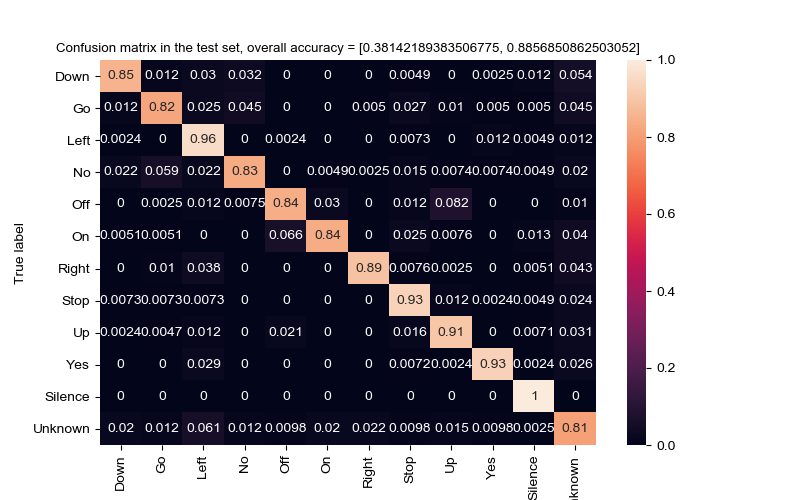
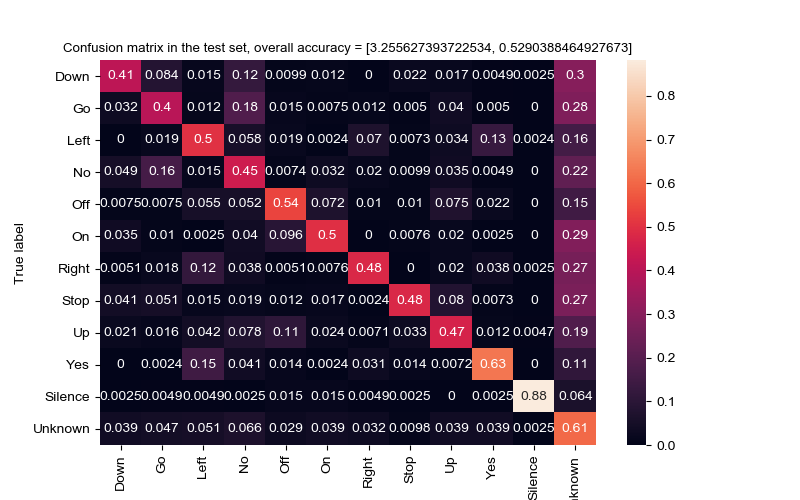
Added some models. Running the code with different values of masking_fraction_training generates different caches files

diff --git a/HDA_Project.py b/HDA_Project.py
@@ -256,6 +256,230 @@ def modelconvNN(input_shape):
 
     return model
 
+def modelconvNN(input_shape):
+    """
+    :param input_shape: -- shape of the data of the dataset
+    :return: model -- a tf.keras.Model() instance
+    """
+
+    X_input = tf.keras.Input(input_shape)
+
+    X = tf.keras.layers.Conv2D(32, (8, 16), strides=(1, 4))(X_input)
+    X = BatchNormalization(axis=3,)(X)
+    X = tf.keras.layers.Activation('relu')(X)
+    X = tf.keras.layers.SpatialDropout2D(0.2)(X)
+    X = MaxPooling2D((2, 2), name='max_pool')(X)
+
+    X = tf.keras.layers.Conv2D(64, (4, 5), strides=(1, 1))(X)
+    X = BatchNormalization(axis=3, )(X)
+    X = tf.keras.layers.Activation('relu')(X)
+    X = tf.keras.layers.SpatialDropout2D(0.2)(X)
+    X = MaxPooling2D((2, 2), name='max_pool1')(X)
+
+    X = tf.keras.layers.Conv2D(128, (3, 3), strides=(1, 1))(X)
+    X = BatchNormalization(axis=3, )(X)
+    X = tf.keras.layers.Activation('relu')(X)
+    X = tf.keras.layers.SpatialDropout2D(0.2)(X)
+    X = MaxPooling2D((2, 2), name='max_pool2')(X)
+
+    X = tf.keras.layers.Flatten()(X)
+
+    X = tf.keras.layers.Dense(12, activation='softmax', name='fc2')(X)
+
+    # Create the keras model. This creates your Keras model instance, you'll use this instance to train/test the model.
+    model = tf.keras.Model(inputs=X_input, outputs=X, name='MyModel')
+
+    return model
+
+
+def modelconvNN1(input_shape):
+    """
+    :param input_shape: -- shape of the data of the dataset
+    :return: model -- a tf.keras.Model() instance
+    """
+
+    X_input = tf.keras.Input(input_shape)
+
+    X = tf.keras.layers.Conv2D(16, (3, 5), strides=(1, 2))(X_input)
+    X = BatchNormalization(axis=3,)(X)
+    X = tf.keras.layers.Activation('relu')(X)
+    X = tf.keras.layers.SpatialDropout2D(0.2)(X)
+    X = MaxPooling2D((2, 2), name='max_pool')(X)
+
+    X = tf.keras.layers.Conv2D(32, (3, 3), strides=(1, 1))(X)
+    X = BatchNormalization(axis=3, )(X)
+    X = tf.keras.layers.Activation('relu')(X)
+    X = tf.keras.layers.SpatialDropout2D(0.2)(X)
+    X = MaxPooling2D((2, 2), name='max_pool1')(X)
+
+    X = tf.keras.layers.Conv2D(64, (3, 3), strides=(1, 1))(X)
+    X = BatchNormalization(axis=3, )(X)
+    X = tf.keras.layers.Activation('relu')(X)
+    X = tf.keras.layers.SpatialDropout2D(0.2)(X)
+    X = MaxPooling2D((2, 2), name='max_pool2')(X)
+
+    X = tf.keras.layers.Conv2D(128, (3, 3), strides=(1, 1))(X)
+    X = BatchNormalization(axis=3, )(X)
+    X = tf.keras.layers.Activation('relu')(X)
+    X = tf.keras.layers.SpatialDropout2D(0.2)(X)
+    X = MaxPooling2D((2, 2), name='max_pool3')(X)
+
+    X = tf.keras.layers.Flatten()(X)
+
+    X = tf.keras.layers.Dense(12, activation='softmax', name='fc2')(X)
+
+    # Create the keras model. This creates your Keras model instance, you'll use this instance to train/test the model.
+    model = tf.keras.Model(inputs=X_input, outputs=X, name='MyModel')
+
+    return model
+
+
+def ConvSpeechModel(input_shape):
+    """
+    Base fully convolutional model for speech recognition
+    """
+
+    X_input = tf.keras.Input(input_shape)
+
+    # note that Melspectrogram puts the sequence in shape (batch_size, melDim, timeSteps, 1)
+    # we would rather have it the other way around for LSTMs
+
+    x = tf.keras.layers.Permute((2, 1, 3))((X_input))
+    # x = Reshape((94,80)) (x) #this is strange - but now we have (batch_size,
+    # sequence, vec_dim)
+
+    c1 = tf.keras.layers.Conv2D(20, (5, 1), activation='relu', padding='same')(x)
+    c1 = tf.keras.layers.BatchNormalization()(c1)
+    p1 = tf.keras.layers.MaxPooling2D((2, 1))(c1)
+    p1 = tf.keras.layers.Dropout(0.03)(p1)
+
+    c2 = tf.keras.layers.Conv2D(40, (3, 3), activation='relu', padding='same')(p1)
+    c2 = tf.keras.layers.BatchNormalization()(c2)
+    p2 = tf.keras.layers.MaxPooling2D((2, 2))(c2)
+    p2 = tf.keras.layers.Dropout(0.01)(p2)
+
+    c3 = tf.keras.layers.Conv2D(80, (3, 3), activation='relu', padding='same')(p2)
+    c3 = tf.keras.layers.BatchNormalization()(c3)
+    p3 = tf.keras.layers.MaxPooling2D((2, 2))(c3)
+
+    p3 = tf.keras.layers.Flatten()(p3)
+    p3 = tf.keras.layers.Dense(64, activation='relu')(p3)
+    p3 = tf.keras.layers.Dense(32, activation='relu')(p3)
+
+    output = tf.keras.layers.Dense(12, activation='softmax')(p3)
+
+    model = tf.keras.Model(inputs=[X_input], outputs=[output], name='ConvSpeechModel')
+
+    return model
+
+
+### not working
+def AttRNNSpeechModel(input_shape, rnn_func=tf.keras.layers.LSTM):
+
+    X_input = tf.keras.Input(input_shape)
+
+    # note that Melspectrogram puts the sequence in shape (batch_size, melDim, timeSteps, 1)
+    # we would rather have it the other way around for LSTMs
+
+    x = tf.keras.layers.Permute((2, 1, 3))(X_input)
+
+    x = tf.keras.layers.Conv2D(10, (5, 1), activation='relu', padding='same')(x)
+    x = tf.keras.layers.BatchNormalization()(x)
+    x = tf.keras.layers.Conv2D(1, (5, 1), activation='relu', padding='same')(x)
+    x = tf.keras.layers.BatchNormalization()(x)
+
+    x = tf.keras.layers.Lambda(lambda q: tf.keras.backend.squeeze(q, -1), name='squeeze_last_dim')(x)
+    x = tf.keras.layers.Bidirectional(rnn_func(64, return_sequences=True))(x)  # [b_s, seq_len, vec_dim]
+    x = tf.keras.layers.Bidirectional(rnn_func(64, return_sequences=True))(x)  # [b_s, seq_len, vec_dim]
+
+    xFirst = tf.keras.layers.Lambda(lambda q: q[:, -1])(x)  # [b_s, vec_dim]
+    query = tf.keras.layers.Dense(128)(xFirst)
+
+    # dot product attention
+    attScores = tf.keras.layers.Dot(axes=[1, 2])([query, x])
+    attScores = tf.keras.layers.Softmax(name='attSoftmax')(attScores)  # [b_s, seq_len]
+
+    # rescale sequence
+    attVector = tf.keras.layers.Dot(axes=[1, 1])([attScores, x])  # [b_s, vec_dim]
+
+    x = tf.keras.layers.Dense(64, activation='relu')(attVector)
+
+    x = tf.keras.layers.Dense(32)(x)
+
+
+    output = tf.keras.layers.Dense(12, activation='softmax')(x)
+
+    model = tf.keras.Model(inputs=[X_input], outputs=[output], name='AttRNNSpeechModel')
+
+    return model
+
+def RNNSpeechModelOriginal(input_shape):
+
+    X_input = tf.keras.Input(input_shape)
+
+    # note that Melspectrogram puts the sequence in shape (batch_size, melDim, timeSteps, 1)
+    # we would rather have it the other way around for LSTMs
+
+    x = tf.keras.layers.Permute((2, 1, 3))(X_input)
+
+    x = tf.keras.layers.Conv2D(10, (5, 1), activation='relu', padding='same')(x)
+    x = tf.keras.layers.BatchNormalization()(x)
+    x = tf.keras.layers.Conv2D(1, (5, 1), activation='relu', padding='same')(x)
+    x = tf.keras.layers.BatchNormalization()(x)
+
+    # x = Reshape((125, 80)) (x)
+    # keras.backend.squeeze(x, axis)
+    x = tf.keras.layers.Lambda(lambda q: tf.keras.backend.squeeze(q, -1), name='squeeze_last_dim')(x)
+
+    x = tf.keras.layers.Bidirectional(tf.compat.v1.keras.layers.CuDNNLSTM(64, return_sequences=True))(
+        x)  # [b_s, seq_len, vec_dim]
+    x = tf.keras.layers.Bidirectional(tf.compat.v1.keras.layers.CuDNNLSTM(64))(x)
+
+
+    x = tf.keras.layers.Flatten()(x)
+
+    x = tf.keras.layers.Dense(64, activation='relu')(x)
+    x = tf.keras.layers.Dense(32, activation='relu')(x)
+
+    output = tf.keras.layers.Dense(12, activation='softmax')(x)
+
+    model = tf.keras.Model(inputs=[X_input], outputs=[output], name='RNNSpeechModelOriginal')
+
+    return model
+
+
+def RNNSpeechModel(input_shape):
+
+    X_input = tf.keras.Input(input_shape)
+
+    # note that Melspectrogram puts the sequence in shape (batch_size, melDim, timeSteps, 1)
+    # we would rather have it the other way around for LSTMs
+
+    x = tf.keras.layers.Permute((2, 1, 3))(X_input)
+
+    x = tf.keras.layers.Conv2D(10, (5, 1), activation='relu', padding='same')(x)
+    x = tf.keras.layers.BatchNormalization()(x)
+    x = tf.keras.layers.Conv2D(1, (5, 1), activation='relu', padding='same')(x)
+    x = tf.keras.layers.BatchNormalization()(x)
+
+    # x = Reshape((125, 80)) (x)
+    # keras.backend.squeeze(x, axis)
+    x = tf.keras.layers.Lambda(lambda q: tf.keras.backend.squeeze(q, -1), name='squeeze_last_dim')(x)
+
+    x = (tf.keras.layers.GRU(64, return_sequences=True))(x)  # [b_s, seq_len, vec_dim]
+    x = (tf.keras.layers.GRU(64))(x)
+
+    x = tf.keras.layers.Flatten()(x)
+
+    x = tf.keras.layers.Dense(64, activation='relu')(x)
+    x = tf.keras.layers.Dense(32, activation='relu')(x)
+
+    output = tf.keras.layers.Dense(12, activation='softmax')(x)
+
+    model = tf.keras.Model(inputs=[X_input], outputs=[output], name='RNNSpeechModel')
+
+    return model
+
 
 def import_datasets_reference(masking_fraction_train = 0):
     """
@@ -451,9 +675,11 @@ if __name__ == '__main__':
     partition_training_set = True
 
     train = True
+    
     batch_size = 32
     unknown_used_fraction = 18
     num_epochs = 30
+    masking_fraction_train = 0.5
 
     #generate_silence_samples(dataset_path)
 
@@ -461,7 +687,7 @@ if __name__ == '__main__':
         generate_train_val_test_list(dataset_path, name_train='train_dataset.txt', name_val='validation_dataset.txt', name_test='test_dataset.txt')
 
 
-    train_reference, validation_reference, test_reference = import_datasets_reference(masking_fraction_train = 0.5)
+    train_reference, validation_reference, test_reference = import_datasets_reference(masking_fraction_train = masking_fraction_train)
 
     numToClass, classToNum = generate_classes_dictionaries(dataset_path)
 
@@ -508,17 +734,17 @@ if __name__ == '__main__':
     # create the tensorflow dataset for train, validation and test
     if use_all_training_set:
         if partition_training_set:
-            train_dataset = create_dataset(train_reference, batch_size, shuffle=True, filter=True, repeat=True, cache_file='train_cache')
+            train_dataset = create_dataset(train_reference, batch_size, shuffle=True, filter=True, repeat=True, cache_file='train_cache'+str(masking_fraction_train))
             validation_dataset = create_dataset(validation_reference, batch_size, shuffle=True, filter=True, repeat=False, cache_file='validation_cache')
         else:
             #the same cached datsets can be used, since the filter is only applied during training, after caching
             train_dataset = create_dataset(train_reference, batch_size, shuffle=True, filter=False, repeat=True,
-                                           cache_file='train_cache')
+                                           cache_file='train_cache'+str(masking_fraction_train))
             validation_dataset = create_dataset(validation_reference, batch_size, shuffle=True,
                                                 filter=False, repeat=False, cache_file='validation_cache')
     else:
         train_dataset = create_dataset(train_reference, batch_size, shuffle=True, filter=False, repeat=True,
-                                       cache_file='train_cache_masked')
+                                       cache_file='train_cache_masked'+str(masking_fraction_train))
         validation_dataset = create_dataset(validation_reference, batch_size, shuffle=True,
                                             filter=False, repeat=False, cache_file='validation_cache_masked')
 
@@ -538,7 +764,12 @@ if __name__ == '__main__':
 
     # Call the function to create the model and compile it
     # model = modelconvNN((n_mels, int(1/(frame_step)-1), 1))
-    model = modelconvNN((80, 126, 1))
+    #model = ConvSpeechModel((80, 126, 1))
+    model = RNNSpeechModelOriginal((80, 126, 1))
+    #model = AttRNNSpeechModel((80, 126, 1))
+
+
+    #model = modelconvNN1((80, 126, 1))
     model.summary()
 
     model.compile(optimizer="adam", loss="sparse_categorical_crossentropy", metrics=["accuracy"])

diff --git a/Feature_analysis.py b/Feature_analysis.py
@@ -293,7 +293,8 @@ if __name__ == '__main__':
     y = y.reshape((-1, 1, 16000))
     print(y.shape)
     melspec = melspecModel.predict(y)
-    print(melspec.shape)
+    print("Kapre result ", melspec.shape)
+
 
     plt.figure(figsize=(5, 3))
     plt.pcolormesh(melspec[0,:,:,0])
